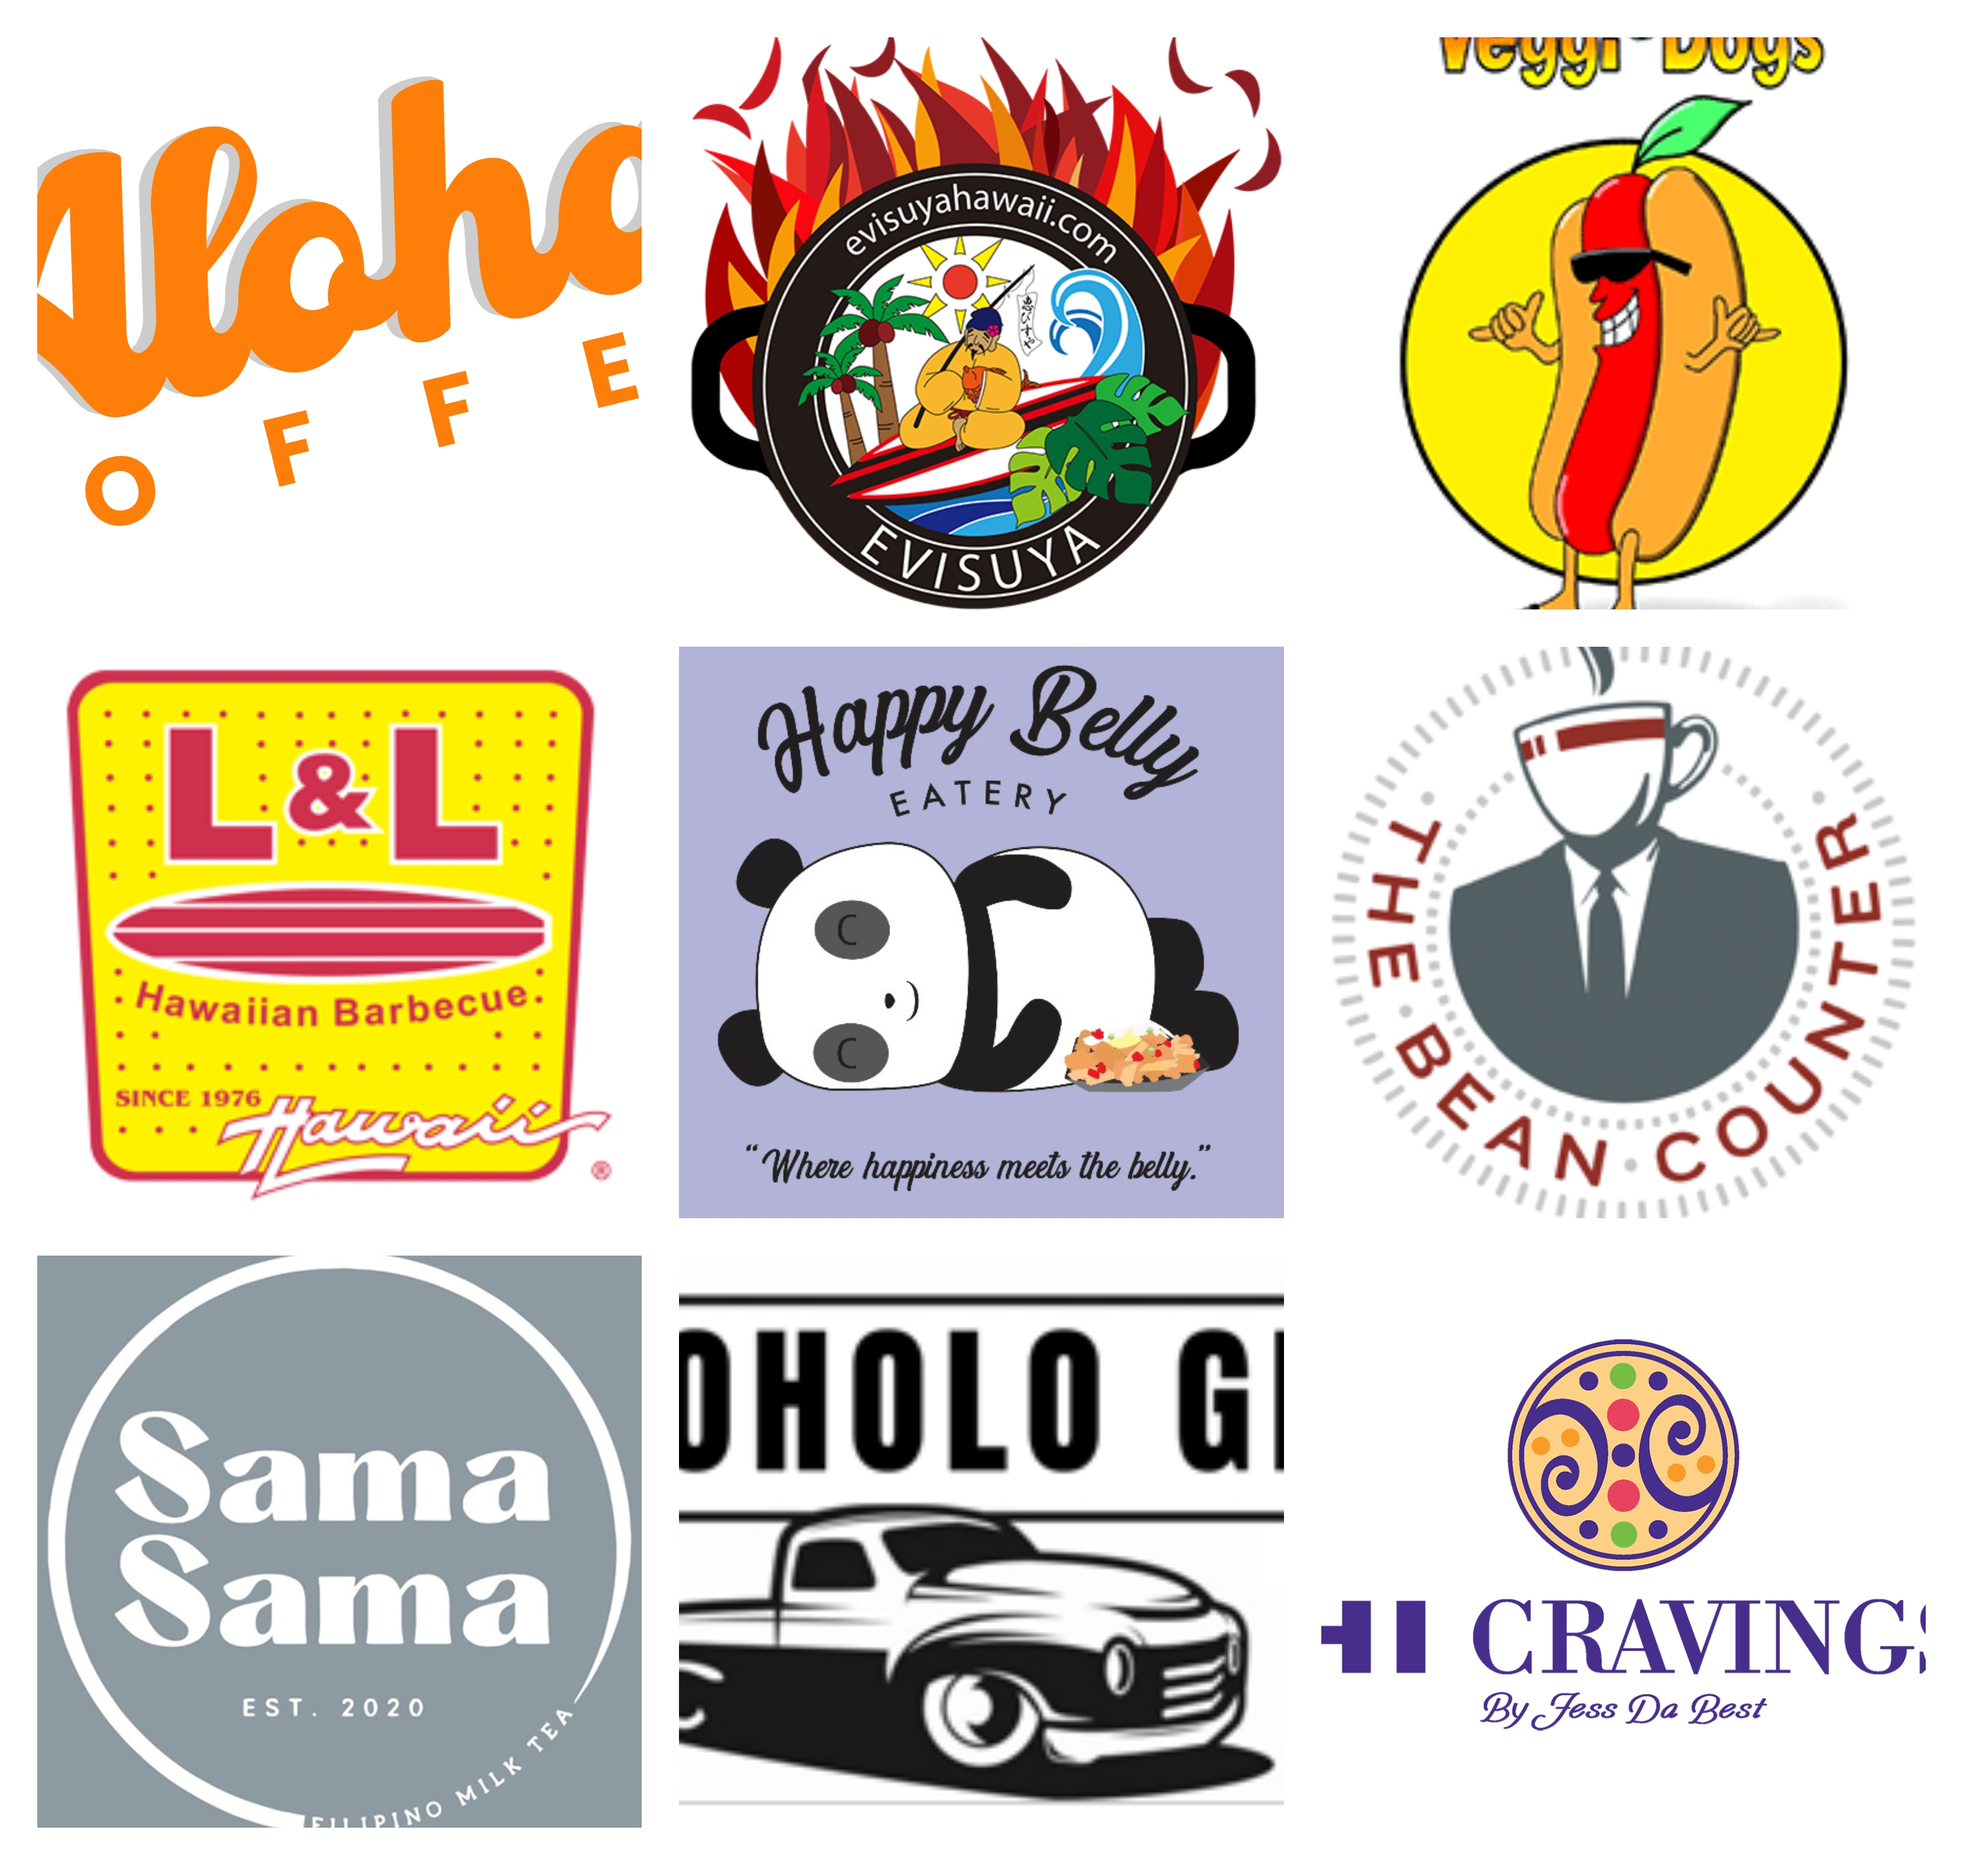
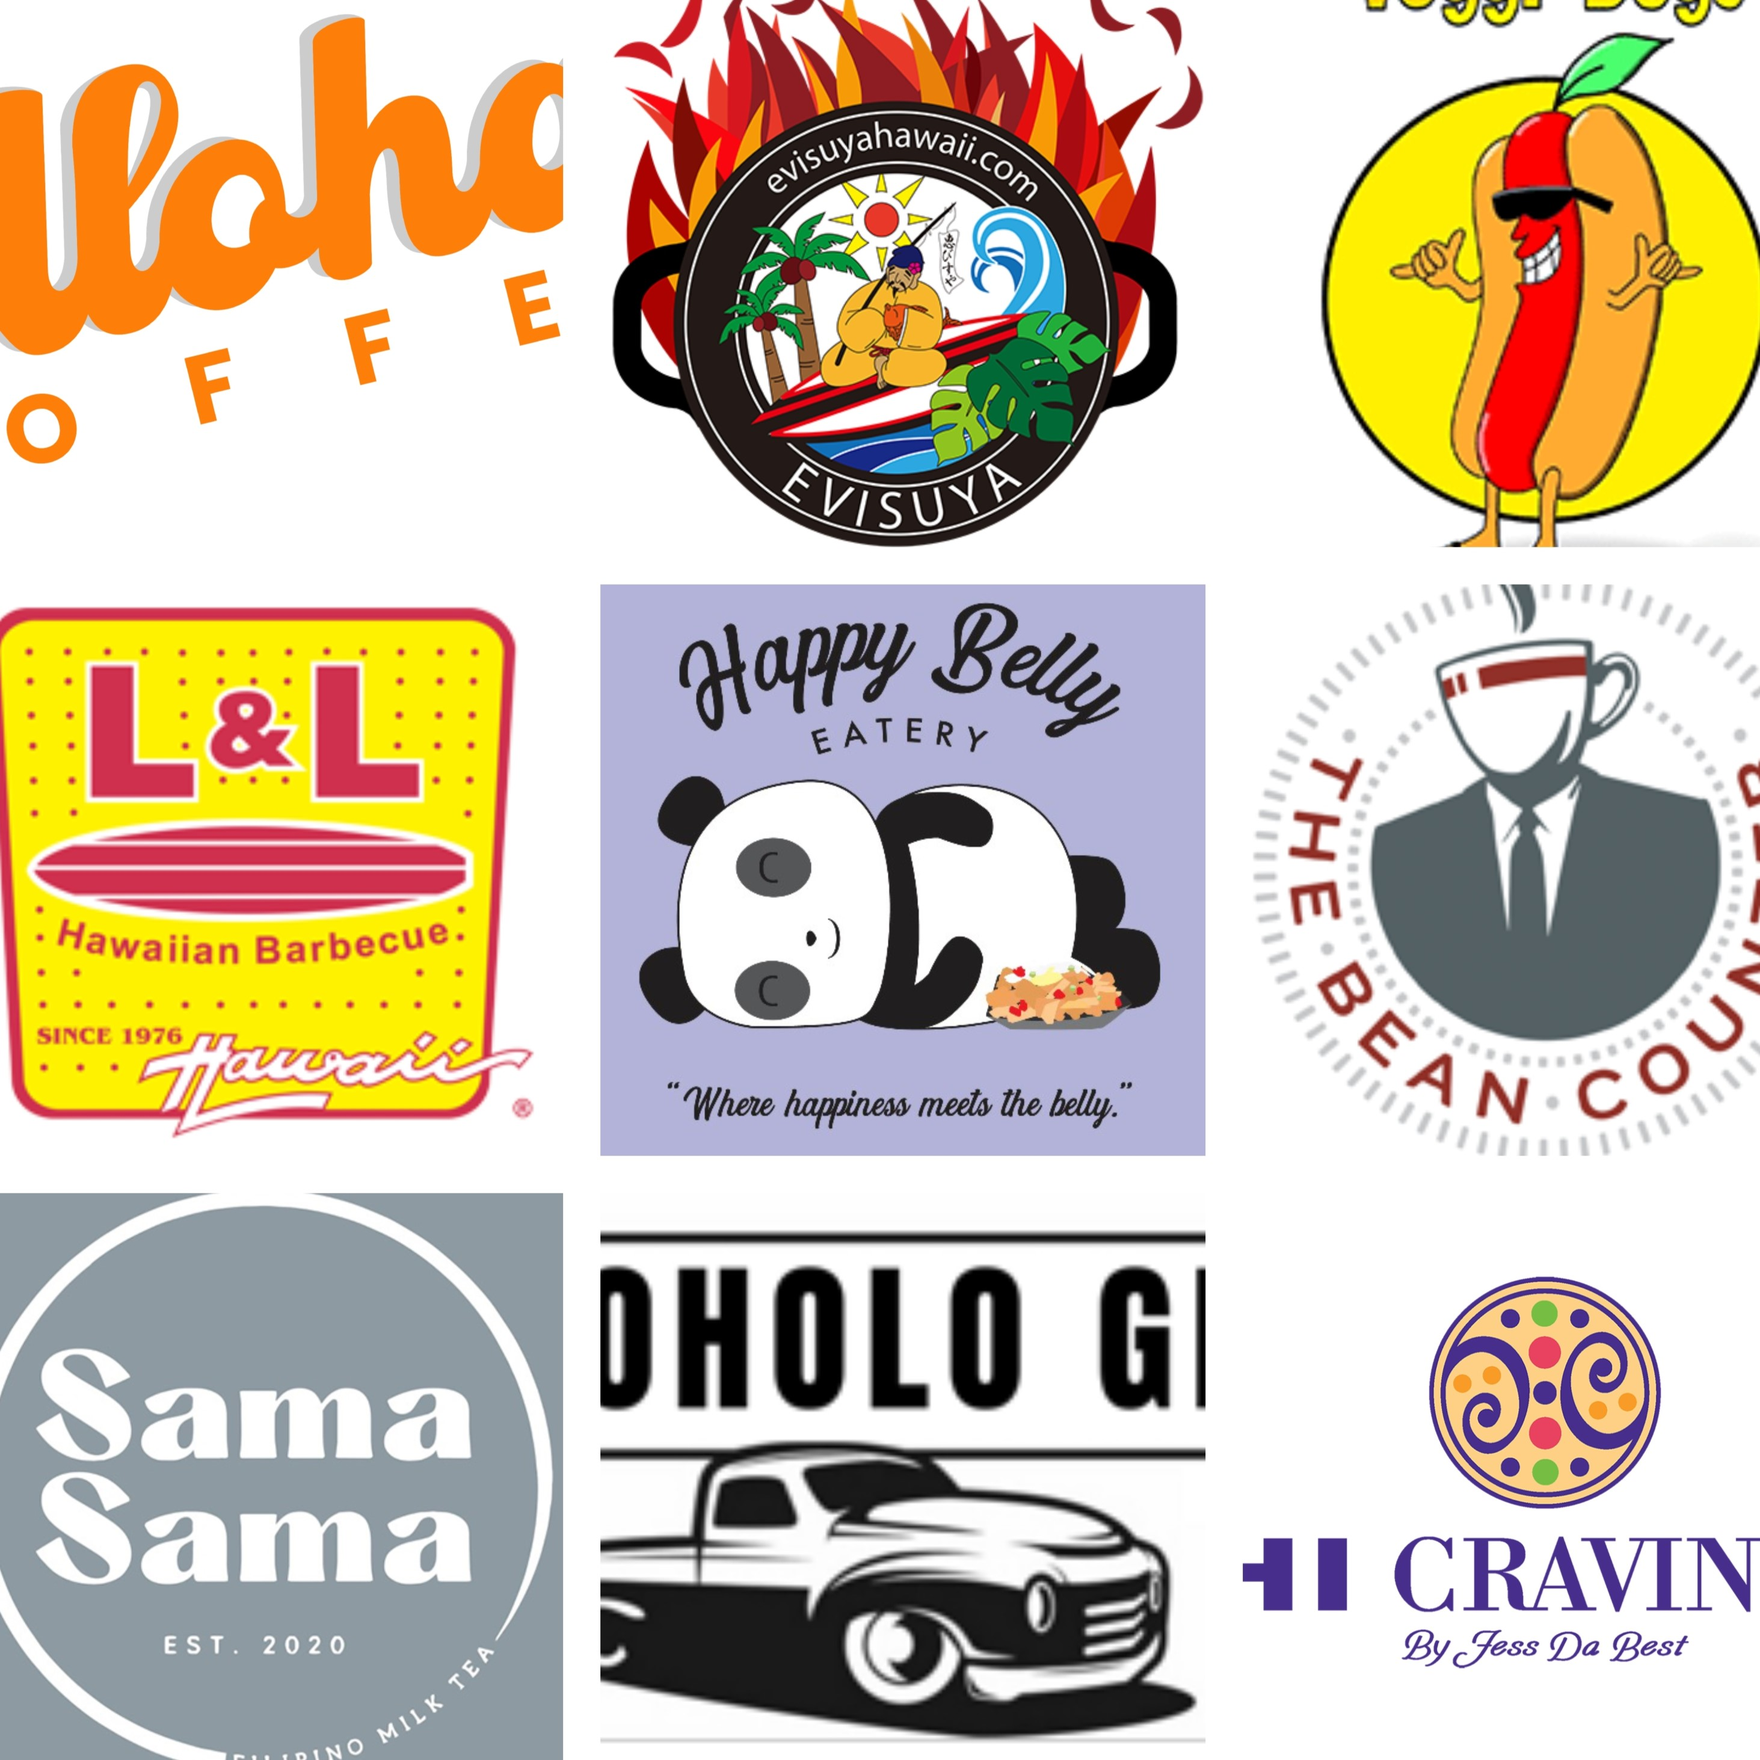
Edited Landing Page
Cropped Images to be Square. Changed how images were implemented in Landing page. Rounded edges on images. Added Login button at bottom of Landing page (not functional).

diff --git a/app/imports/ui/pages/Landing.jsx b/app/imports/ui/pages/Landing.jsx
@@ -27,30 +27,24 @@ const Landing = () => (
 
         <Row className="align-middle text-center">
           <Col xs={4}>
-            <Card>
-              <Card.Img variant="top" src="images/BeFunky-collage.jpg" />
-            </Card>
-            <div className="pt-2">
+            <div className="pt-2" >
+              <img src="images/BeFunky-collage.jpg" class="rounded img-fluid"  alt="VendorCollage"/>
               <h1>Vendor List</h1>
               <h5>List of all food options on campus. </h5>
             </div>
           </Col>
 
           <Col xs={4}>
-            <Card>
-              <Card.Img variant="top" src="images/fsvendormap.jpg" />
-            </Card>
             <div className="pt-2">
+              <img src="images/fsvendormap.jpg" className="rounded img-fluid" alt="VendorMapImg"/>
               <h1>Vendor Map</h1>
               <h5>View food options on Campus Map.</h5>
             </div>
           </Col>
 
           <Col xs={4}>
-            <Card>
-              <Card.Img variant="top" src="images/Foodlnl.jpg" />
-            </Card>
             <div className="pt-2">
+              <img src="images/Foodlnl.jpg" className="rounded img-fluid" alt="CusineTypeImage"/>
               <h1>Cuisine Type</h1>
               <h5>Search vendors by cuisine type.</h5>
             </div>
@@ -64,7 +58,14 @@ const Landing = () => (
           </Col>
         </Row>
 
+        <Row className="align-middle text-center pt-3">
+          <Col>
+            <button type="button" className="btn btn-outline-success btn-lg">Login</button>
+          </Col>
+        </Row>
+
       </Container>
+
     </div>
   </div>
 );
